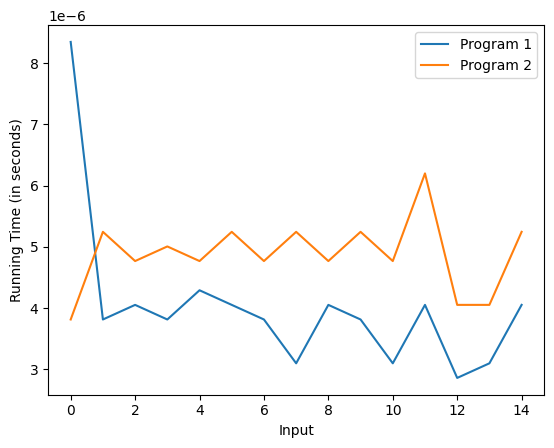
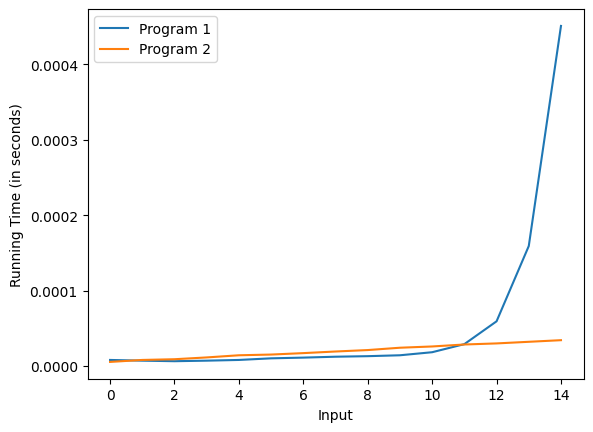
rytui

diff --git a/psets/ps3/experiments.py b/psets/ps3/experiments.py
@@ -35,8 +35,13 @@ prog1 = [8,
     ['assign', output_len_id, 1], 
     ['assign', output_ptr_id, 0],
     # TODO: lines 5-8 from pseudocode
+    ['assign', result_id, 13],
+    ['read', counter_id, zero_id],
+    ['goto', counter_id, 11],
+    ['*', result_id, result_id, result_id],
     ['-', counter_id, counter_id, one_id],
     ['goto', zero_id, 7],
+
     ['*', result_id, result_id, thirteen_id],
     ['write', output_ptr_id, result_id]
 ]
@@ -58,6 +63,14 @@ prog2 = [10,
     ['-', result_id, result_id, temp_id],
     ['-', counter_id, counter_id, one_id],
     # TODO: lines 14-19 from pseudocode
+
+    ['goto', zero_id, 8],
+    ['*', result_id, result_id, thirteen_id],
+    ['/', temp_id, result_id, W_id],
+    ['*', temp_id, temp_id, W_id],
+    ['-', result_id, result_id, temp_id],
+    ['write', output_ptr_id, result_id],
+    
 ]
 
 
